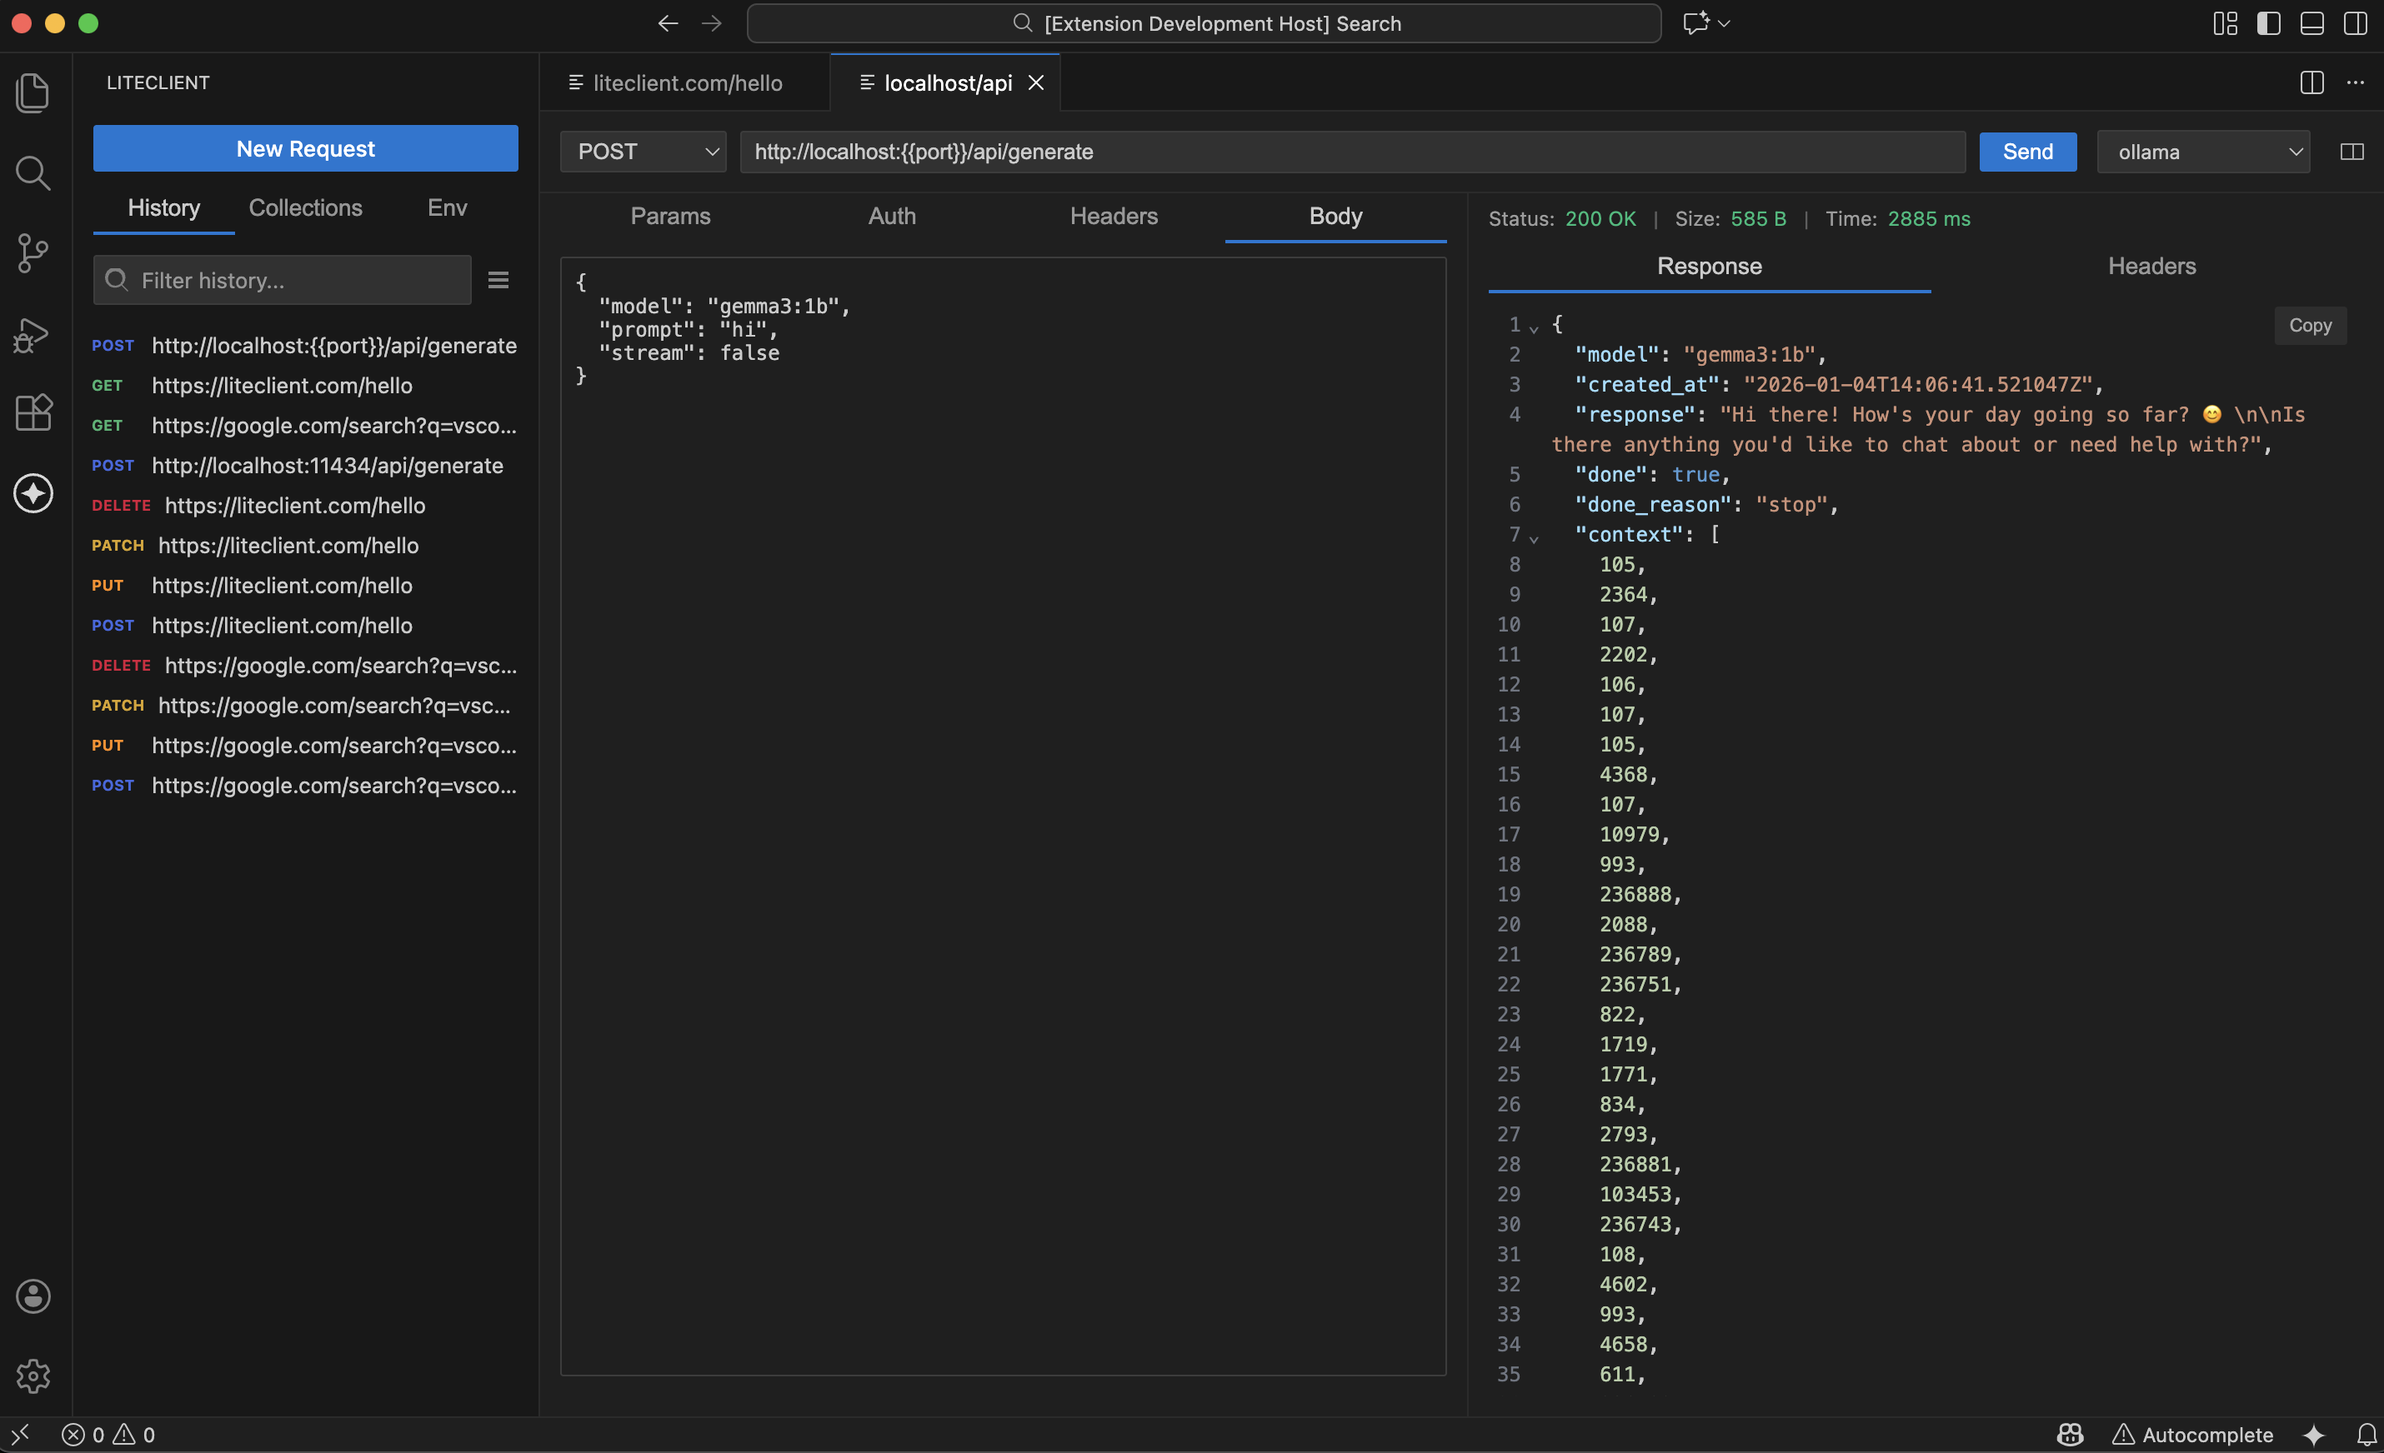
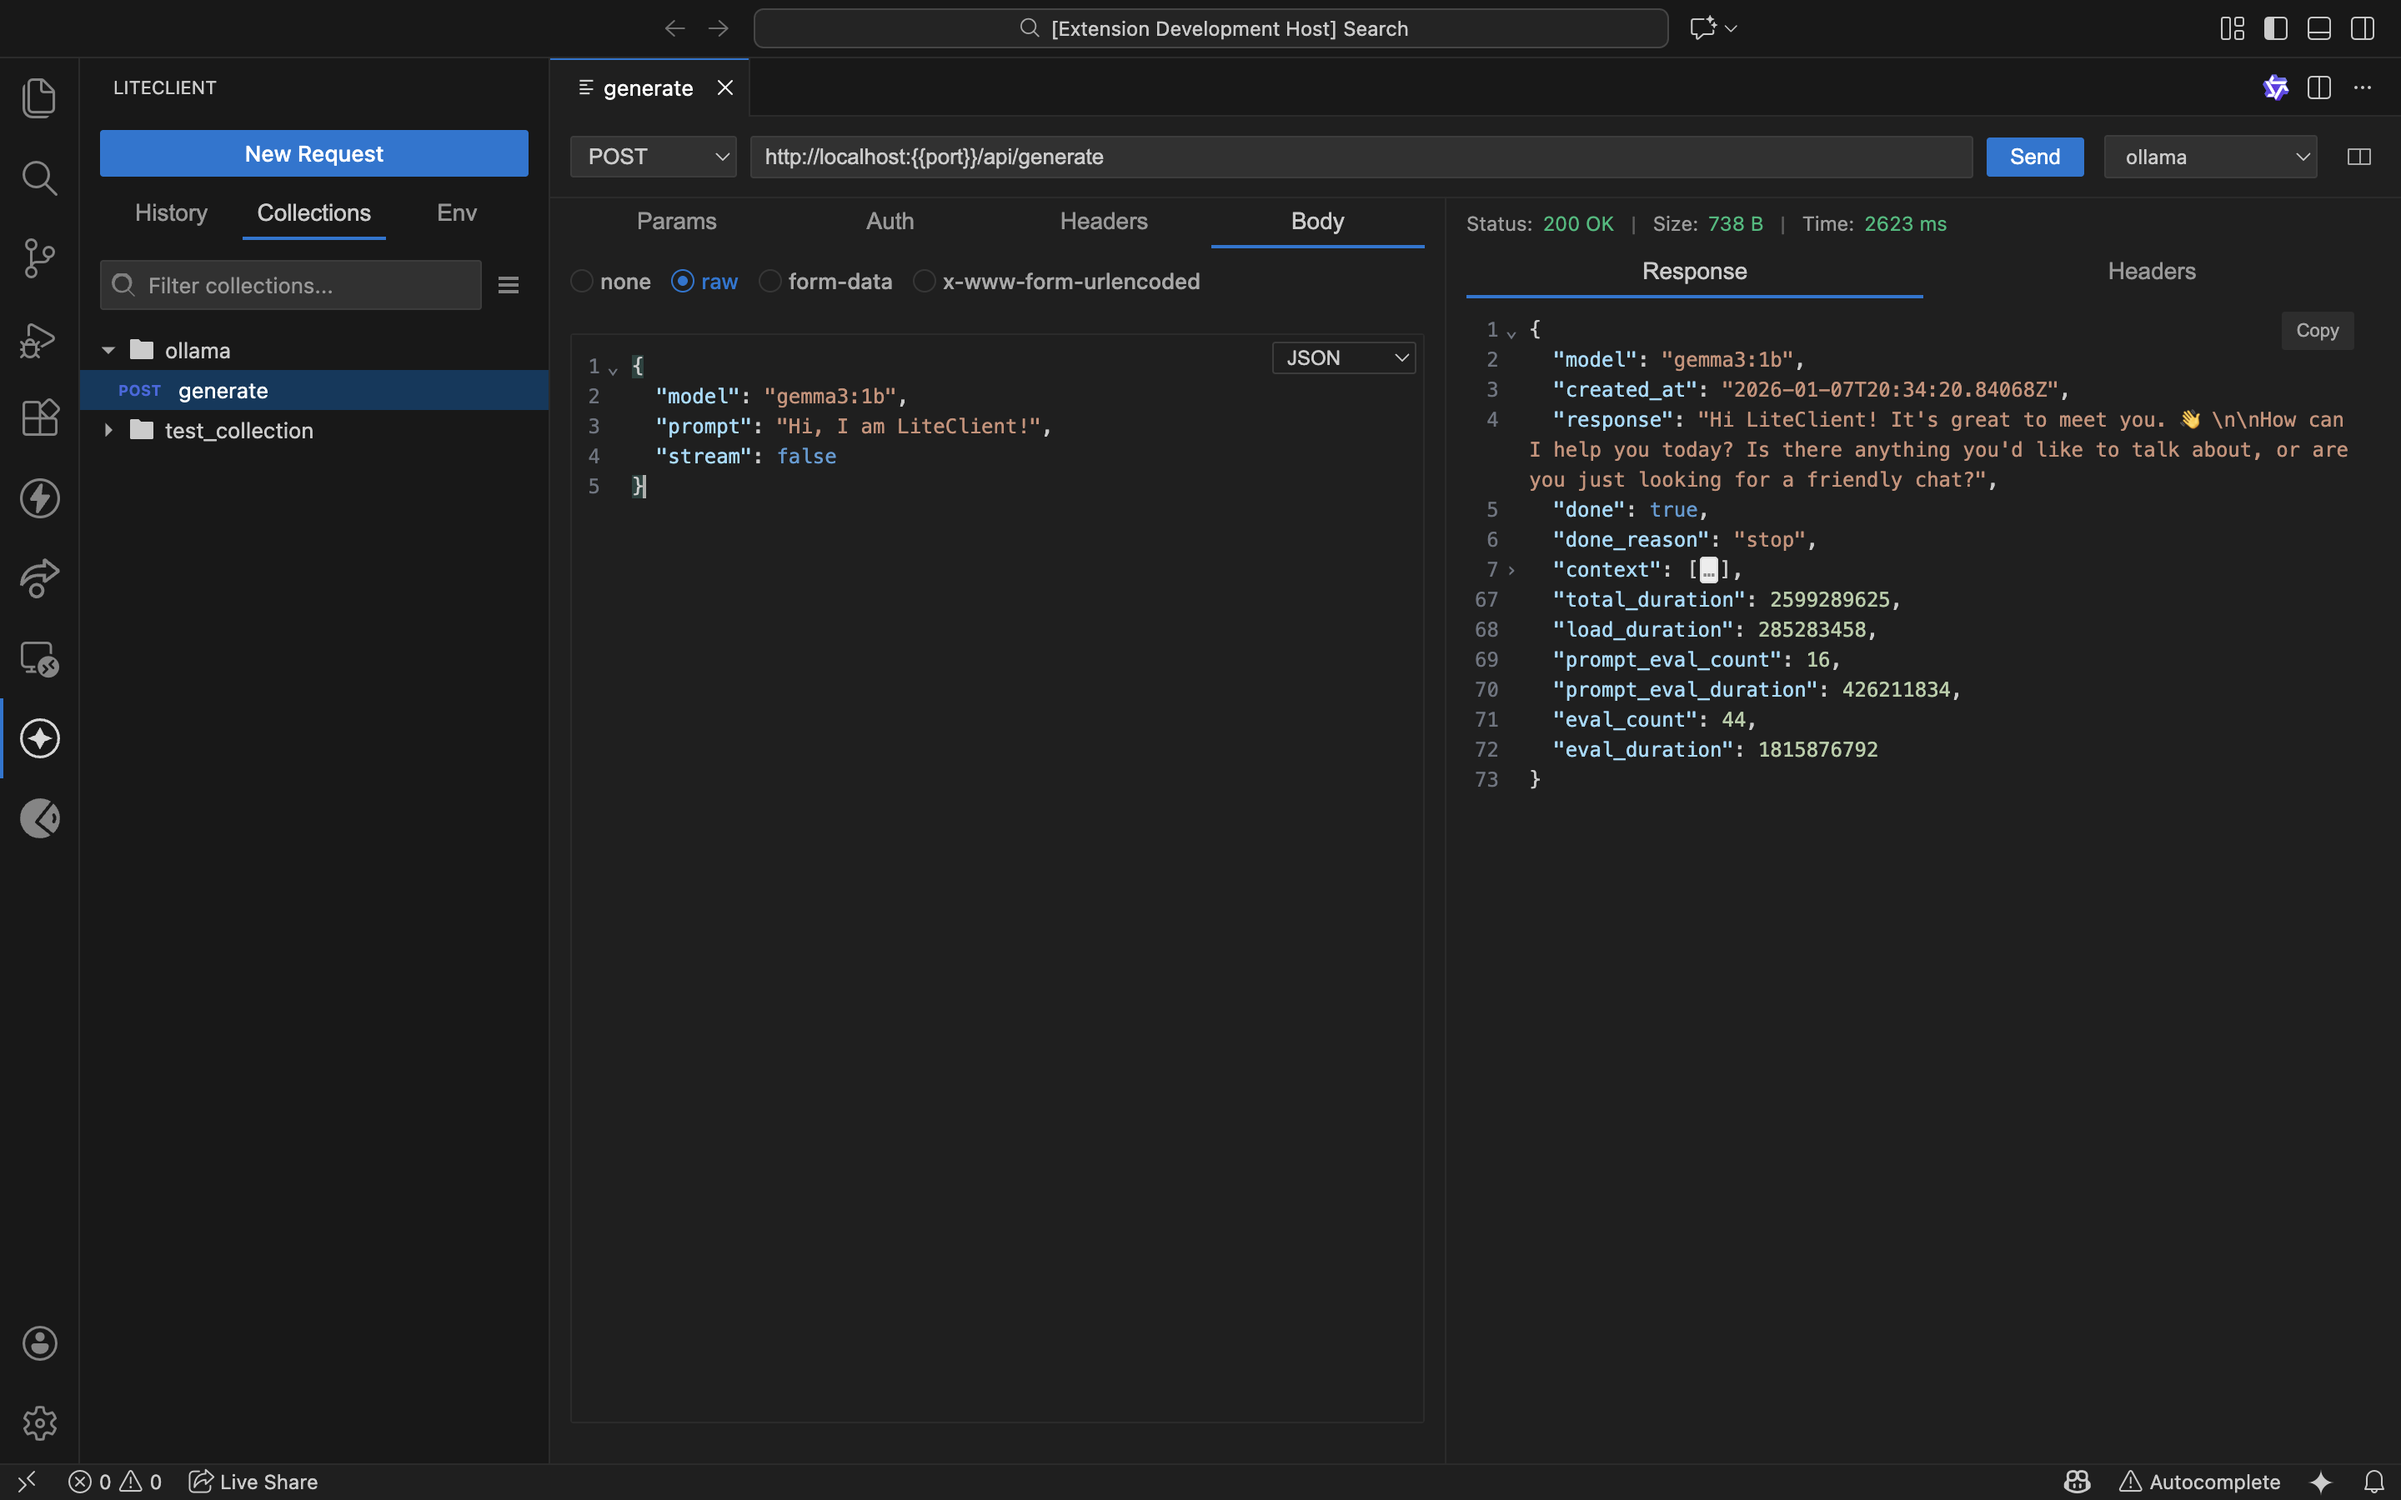
feat: improve body panel layout and UX
- Fix subtle movement when selecting raw radio button
- Set JSON as default raw type
- Reorder dropdown options with JSON first
- Remove separator below radio buttons
- Make radio buttons horizontally scrollable without wrapping
- Move dropdown to top right of editor area
- Fix font weight consistency to prevent reflow
- Add border only for raw mode
- Center none message vertically
- Update screenshot

diff --git a/src/webview/request/components/lc-body-panel.ts b/src/webview/request/components/lc-body-panel.ts
@@ -28,13 +28,15 @@ export class LcBodyPanel extends LcBaseElement {
       align-items: center;
       gap: 16px;
       padding: 4px 0 12px 0;
-      border-bottom: 1px solid var(--vscode-panel-border);
       margin-bottom: 12px;
+      position: relative;
+      overflow-x: auto;
     }
 
     .radio-group {
       display: flex;
       gap: 12px;
+      flex-shrink: 0;
     }
 
     .radio-option {
@@ -43,9 +45,11 @@ export class LcBodyPanel extends LcBaseElement {
       gap: 4px;
       cursor: pointer;
       font-size: 13px;
+      font-weight: 500;
       color: var(--vscode-foreground);
       opacity: 0.8;
       user-select: none;
+      white-space: nowrap;
     }
 
     .radio-option:hover {
@@ -55,7 +59,6 @@ export class LcBodyPanel extends LcBaseElement {
     .radio-option.active {
       opacity: 1;
       color: var(--vscode-focusBorder);
-      font-weight: 500;
     }
 
     .radio-input {
@@ -85,7 +88,10 @@ export class LcBodyPanel extends LcBaseElement {
     }
 
     .raw-type-selector {
-      margin-left: auto;
+      position: absolute;
+      right: 0;
+      top: 50%;
+      transform: translateY(-50%);
       display: flex;
       align-items: center;
       gap: 8px;
@@ -109,15 +115,29 @@ export class LcBodyPanel extends LcBaseElement {
     .editor-container {
       flex: 1;
       min-height: 0;
-      border: 1px solid var(--vscode-panel-border);
       border-radius: 2px;
+    }
+
+    .editor-container.with-border {
+      border: 1px solid var(--vscode-panel-border);
+    }
+
+    .editor-wrapper {
+      position: relative;
+      height: 100%;
+    }
+
+    .editor-dropdown {
+      position: absolute;
+      top: 4px;
+      right: 4px;
+      z-index: 10;
     }
 
     .none-message {
       flex: 1;
       display: flex;
       align-items: center;
-      justify-content: center;
       color: var(--vscode-descriptionForeground);
       font-size: 13px;
       font-style: italic;
@@ -133,7 +153,7 @@ export class LcBodyPanel extends LcBaseElement {
     } else if (mode === 'raw') {
       newBody = {
         mode: 'raw',
-        rawType: 'text',
+        rawType: 'json',
         value: ''
       };
     } else if (mode === 'form-data') {
@@ -208,28 +228,28 @@ export class LcBodyPanel extends LcBaseElement {
     return html`
       <div class="body-selector">
         <div class="radio-group">
-          <div 
+          <div
             class="radio-option ${this.body.mode === 'none' ? 'active' : ''}"
             @click=${() => this.handleModeChange('none')}
           >
             <div class="radio-circle"></div>
             <span>none</span>
           </div>
-          <div 
+          <div
             class="radio-option ${this.body.mode === 'raw' ? 'active' : ''}"
             @click=${() => this.handleModeChange('raw')}
           >
             <div class="radio-circle"></div>
             <span>raw</span>
           </div>
-          <div 
+          <div
             class="radio-option ${this.body.mode === 'form-data' ? 'active' : ''}"
             @click=${() => this.handleModeChange('form-data')}
           >
             <div class="radio-circle"></div>
             <span>form-data</span>
           </div>
-          <div 
+          <div
             class="radio-option ${this.body.mode === 'x-www-form-urlencoded' ? 'active' : ''}"
             @click=${() => this.handleModeChange('x-www-form-urlencoded')}
           >
@@ -237,30 +257,29 @@ export class LcBodyPanel extends LcBaseElement {
             <span>x-www-form-urlencoded</span>
           </div>
         </div>
-
-        ${this.body.mode === 'raw' ? html`
-          <div class="raw-type-selector">
-            <select class="raw-type-select" @change=${this.handleRawTypeChange}>
-              <option value="text" ?selected=${this.body.rawType === 'text'}>Text</option>
-              <option value="javascript" ?selected=${this.body.rawType === 'javascript'}>JavaScript</option>
-              <option value="json" ?selected=${this.body.rawType === 'json'}>JSON</option>
-              <option value="html" ?selected=${this.body.rawType === 'html'}>HTML</option>
-              <option value="xml" ?selected=${this.body.rawType === 'xml'}>XML</option>
-            </select>
-          </div>
-        ` : ''}
       </div>
 
-      <div class="editor-container">
+      <div class="editor-container ${this.body.mode === 'raw' ? 'with-border' : ''}">
         ${this.body.mode === 'none'
         ? html`<div class="none-message">This request does not have a body</div>`
         : this.body.mode === 'raw'
           ? html`
-            <lc-code-editor
-              .value=${this.body.value}
-              .language=${this.getEditorLanguage(this.body.rawType)}
-              @change=${this.handleValueChange}
-            ></lc-code-editor>
+            <div class="editor-wrapper">
+              <lc-code-editor
+                .value=${this.body.value}
+                .language=${this.getEditorLanguage(this.body.rawType)}
+                @change=${this.handleValueChange}
+              ></lc-code-editor>
+              <div class="editor-dropdown">
+                <select class="raw-type-select" @change=${this.handleRawTypeChange}>
+                  <option value="json" ?selected=${this.body.rawType === 'json'}>JSON</option>
+                  <option value="text" ?selected=${this.body.rawType === 'text'}>Text</option>
+                  <option value="javascript" ?selected=${this.body.rawType === 'javascript'}>JavaScript</option>
+                  <option value="html" ?selected=${this.body.rawType === 'html'}>HTML</option>
+                  <option value="xml" ?selected=${this.body.rawType === 'xml'}>XML</option>
+                </select>
+              </div>
+            </div>
           `
           : html`
             <lc-key-value-editor

diff --git a/CHANGELOG.md b/CHANGELOG.md
@@ -5,6 +5,18 @@ All notable changes to this project will be documented in this file.
 The format is based on [Keep a Changelog](https://keepachangelog.com/en/1.0.0/),
 and this project adheres to [Semantic Versioning](https://semver.org/spec/v2.0.0.html).
 
+## [0.5.1] - 2026-01-07
+
+### Changed
+- **Body Panel Improvements**: Enhanced layout and usability of the request body panel.
+- **Default Raw Type**: JSON is now the default selection for raw body types.
+- **Dropdown Positioning**: Moved raw type dropdown to the top right of the editor area for better UX.
+- **UI Polish**: Removed unnecessary borders, improved centering, and fixed layout shifts.
+
+### Fixed
+- **Layout Stability**: Eliminated subtle movements and overlaps in the body panel when switching modes or resizing.
+- **Responsive Design**: Radio buttons now scroll horizontally without text wrapping on narrow panels.
+
 ## [0.5.0] - 2026-01-06
 
 ### Added
